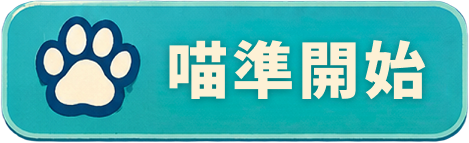
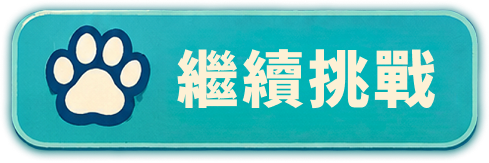
feat(ui): 下注面板依設計稿調整 — start.png 滿寬確認鈕 + 內容收進面板
- 新增 start.png（990x162 烙字「喵準開始」）作下注確認鈕：滿寬 46..938、
  與面板保持 20px 間距（面板上移至 y24..444，鈕 464..610）；
  移除舊 runtime -20px 座標補償，缺圖退回 primary 文字鈕
- next.png 換版（烙字「繼續挑戰」），決策畫面續戰鈕沿用同路徑自動生效
- 修設計稿比對出的視覺問題：籌碼欄下移收進面板（y24..258，原第一排
  壓面板上緣）；±/金額縮小（130x114→112x92、字級 80→68）並下移，
  中央貓糧插圖（底 240）不再壓到金額文字
- 刪除 bet_info.png（上一輪已停用，人類刪檔）；manifest 同步 start/next/bet_info
驗證：betting/decision/reset 三態實跑截圖，間距與警示列無跑版。

diff --git a/Assets/ART_ASSET_MANIFEST.md b/Assets/ART_ASSET_MANIFEST.md
@@ -70,9 +70,10 @@
 | asset_id | file_name | target_path | required | transparent | purpose | fallback | status | notes |
 |---|---|---|---|---|---|---|---|---|
 | ui_board | board.png | Assets/final/ui/ | optional | yes | HUD 單板木質看板（取代三欄卡） | 程式 StyleBoxFlat 底板 | imported | 欄位標題由 Label 疊字（ui_text.json） |
-| ui_bet_ribbon | bet_info.png | Assets/final/ui/ | optional | yes | 下注面板「下注內容」緞帶（含烤字） | 粉紅程式緞帶＋文字 | retired | **已停用（2026-07-12）**：緞帶與文字已烙進新版 skin_panel.png，程式不再引用；檔案暫留庫存 |
+| ui_bet_ribbon | bet_info.png | Assets/final/ui/ | optional | yes | 下注面板「下注內容」緞帶（含烤字） | 粉紅程式緞帶＋文字 | retired | **已停用並刪檔（2026-07-12）**：緞帶與文字已烙進新版 skin_panel.png |
 | ui_bet_context | bet_context.png | Assets/final/ui/ | optional | yes | 下注面板中央貓糧插圖 | 自動隱藏 | imported | 裝飾用 |
-| ui_btn_next | next.png | Assets/final/ui/ | optional | yes | 續戰/開始大按鈕（烤字「喵準開始」） | 文字按鈕 primary 樣式 | imported | 烤字素材，改字需重出圖 |
+| ui_btn_next | next.png | Assets/final/ui/ | optional | yes | 決策畫面續戰按鈕（烤字「繼續挑戰」，2026-07-12 換版） | 文字按鈕 primary 樣式 | imported | 烤字素材，改字需重出圖 |
+| ui_btn_start | start.png | Assets/final/ui/ | optional | yes | 下注畫面滿寬確認鈕（烤字「喵準開始」，990×162） | 文字按鈕 primary 樣式 | imported | 設計師交付（2026-07-12）；烤字素材，改字需重出圖 |
 | ui_btn_retreat | retreat.png | Assets/final/ui/ | optional | yes | 撤退大按鈕（烤字「喵準快逃」） | 文字按鈕 secondary 樣式 | imported | 烤字素材，改字需重出圖 |
 | ui_ranking_btn | ranking_btn.png | Assets/final/ui/ | optional | yes | 左上角排行榜入口（頭像＋獎盃＋烤字「玩家排行」整圖鈕） | 文字獎盃膠囊 trophy_pill | imported | 設計師交付（2026-07-12）；478×294，取代舊 ProfileFrame＋排行膠囊 |
 | ui_money_card | money_card.png | Assets/final/ui/ | optional | yes | 左上角餘額卡（含零食 icon 底圖，數字程式疊字） | 資源膠囊＋「金幣 N」文案 | imported | 設計師交付（2026-07-12）；430×80，數字千分位由程式格式化 |